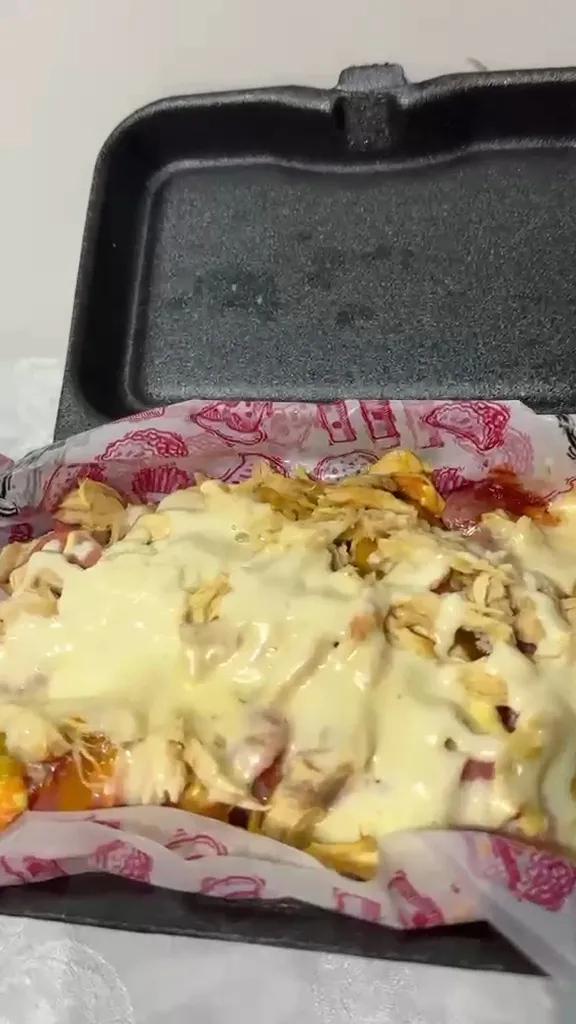
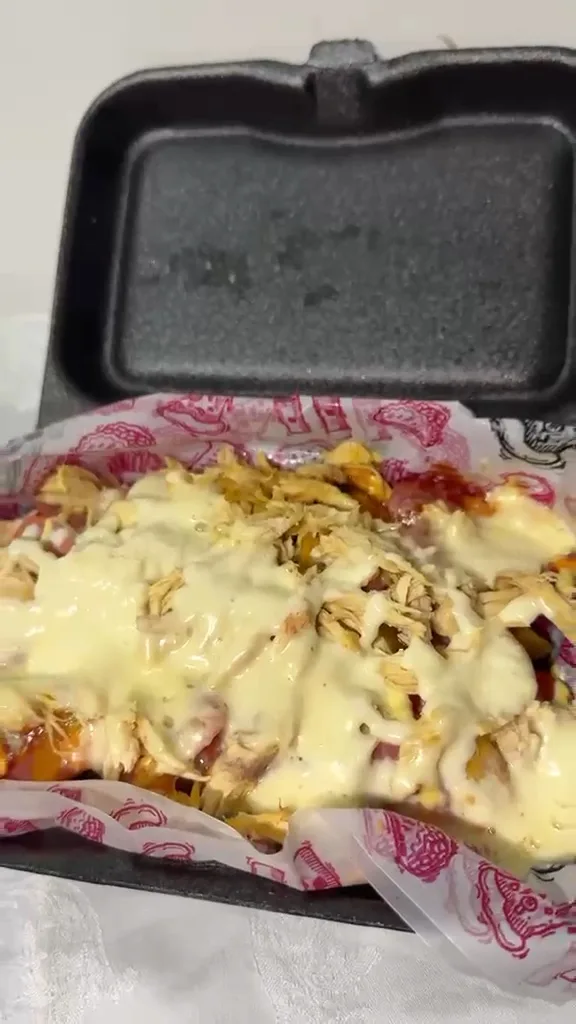
Video de salchipapa desde el gratinado y encuadre sobre la comida

diff --git a/index.html b/index.html
@@ -107,7 +107,7 @@
   .thumb{position:relative}
   .thumb img{width:100%;height:100%;object-fit:cover}
   .vbadge{position:absolute;left:6px;top:6px;display:inline-flex;align-items:center;gap:4px;padding:3px 8px;border-radius:99px;background:rgba(15,37,55,.85);color:#fff;font-size:12px;font-weight:800}
-  .d-img.video{aspect-ratio:4/5;max-height:62dvh;margin:0 auto;width:100%}
+  .d-img.video{aspect-ratio:1;max-height:58dvh;margin:0 auto;width:100%;background:#111}
   .d-img video{width:100%;height:100%;object-fit:cover;display:block;background:#111}
   .d-img{position:relative}
   .snd{position:absolute;left:10px;bottom:10px;width:44px;height:44px;border-radius:50%;display:grid;place-items:center;background:rgba(15,37,55,.8);color:#fff}
@@ -337,8 +337,8 @@ const MENU = [
   ]},
   { id:"salchipapas", name:"Salchipapas", note:"Gratinadas con queso fundido.", tile:"img/cat-salchipapas.webp", items:[
     { id:"s1", name:"Salchipapa gratinada sencilla", desc:"Papa a la francesa con salchicha, gratinada con queso y salsas.", price:12000, img:"img/salchi_sencilla" },
-    { id:"s2", name:"Salchipapa gratinada con pollo", desc:"Papa a la francesa con salchicha y pollo, gratinada con queso y salsas.", price:16000, img:"img/salchi_pollo", video:["video/salchipapa-pollo.mp4"], poster:"video/salchipollo-real-poster.webp" },
-    { id:"s3", name:"Costipapa gratinada + bebida", desc:"Papa a la francesa con costilla, gratinada con queso y salsas.", inc:"1 bebida", price:20000, img:"img/costipapa", video:["video/costipapa-1.mp4","video/costipapa-2.mp4"], poster:"video/costipapa-real-poster.webp" },
+    { id:"s2", name:"Salchipapa gratinada con pollo", desc:"Papa a la francesa con salchicha y pollo, gratinada con queso y salsas.", price:16000, img:"img/salchi_pollo_real", video:[{src:"video/salchipapa-pollo.mp4", start:16}], focus:"50% 78%", poster:"video/salchipollo-real-poster.webp" },
+    { id:"s3", name:"Costipapa gratinada + bebida", desc:"Papa a la francesa con costilla, gratinada con queso y salsas.", inc:"1 bebida", price:20000, img:"img/costipapa", video:["video/costipapa-1.mp4","video/costipapa-2.mp4"], focus:"50% 70%", poster:"video/costipapa-real-poster.webp" },
   ]},
   { id:"bebidas", name:"Bebidas", note:"Bien frías.", tile:"img/cat-bebidas.webp", items:[
     { id:"b1", name:"Coronita", desc:"Cerveza Corona Extra, botella de 210 ml.", price:5000, img:"img/corona", contain:true },
@@ -430,15 +430,21 @@ function showMedia(it){
   box.classList.toggle("video", !!it.video);
   if (!it.video) { box.innerHTML = `<img alt="" src="${it.img}.webp">`; return; }
   let k = 0;
-  box.innerHTML = `<video muted playsinline autoplay preload="metadata" poster="${it.poster}" aria-label="Video de ${esc(it.name)}"></video><button class="snd" type="button" aria-label="Activar sonido" aria-pressed="false">${mute}</button>`;
+  box.innerHTML = `<video muted playsinline autoplay preload="auto" poster="${it.poster}" style="object-position:${it.focus || "50% 50%"}" aria-label="Video de ${esc(it.name)}"></video><button class="snd" type="button" aria-label="Activar sonido" aria-pressed="false">${mute}</button>`;
   const v = box.querySelector("video"), snd = box.querySelector(".snd");
-  const play = () => { v.src = it.video[k]; v.play().catch(() => {}); };
+  const clip = i => typeof it.video[i] === "string" ? {src: it.video[i], start: 0} : it.video[i];
+  const play = () => {
+    const c = clip(k);
+    if (v.getAttribute("src") === c.src) { v.currentTime = c.start; v.play().catch(() => {}); return; }
+    v.src = c.src;
+    v.addEventListener("loadedmetadata", () => { v.currentTime = c.start; v.play().catch(() => {}); }, {once:true});
+  };
   v.addEventListener("ended", () => { k = (k + 1) % it.video.length; play(); });
   snd.addEventListener("click", () => {
     v.muted = !v.muted; snd.innerHTML = v.muted ? mute : unmute;
     snd.setAttribute("aria-label", v.muted ? "Activar sonido" : "Silenciar"); snd.setAttribute("aria-pressed", String(!v.muted));
   });
-  if (reduce()) { v.removeAttribute("autoplay"); v.src = it.video[0]; v.controls = true; } else play();
+  if (reduce()) { v.removeAttribute("autoplay"); v.src = clip(0).src + "#t=" + clip(0).start; v.controls = true; } else play();
 }
 const stopMedia = () => { const v = $("#d-img video"); if (v) { v.pause(); v.removeAttribute("src"); v.load(); } };
 
